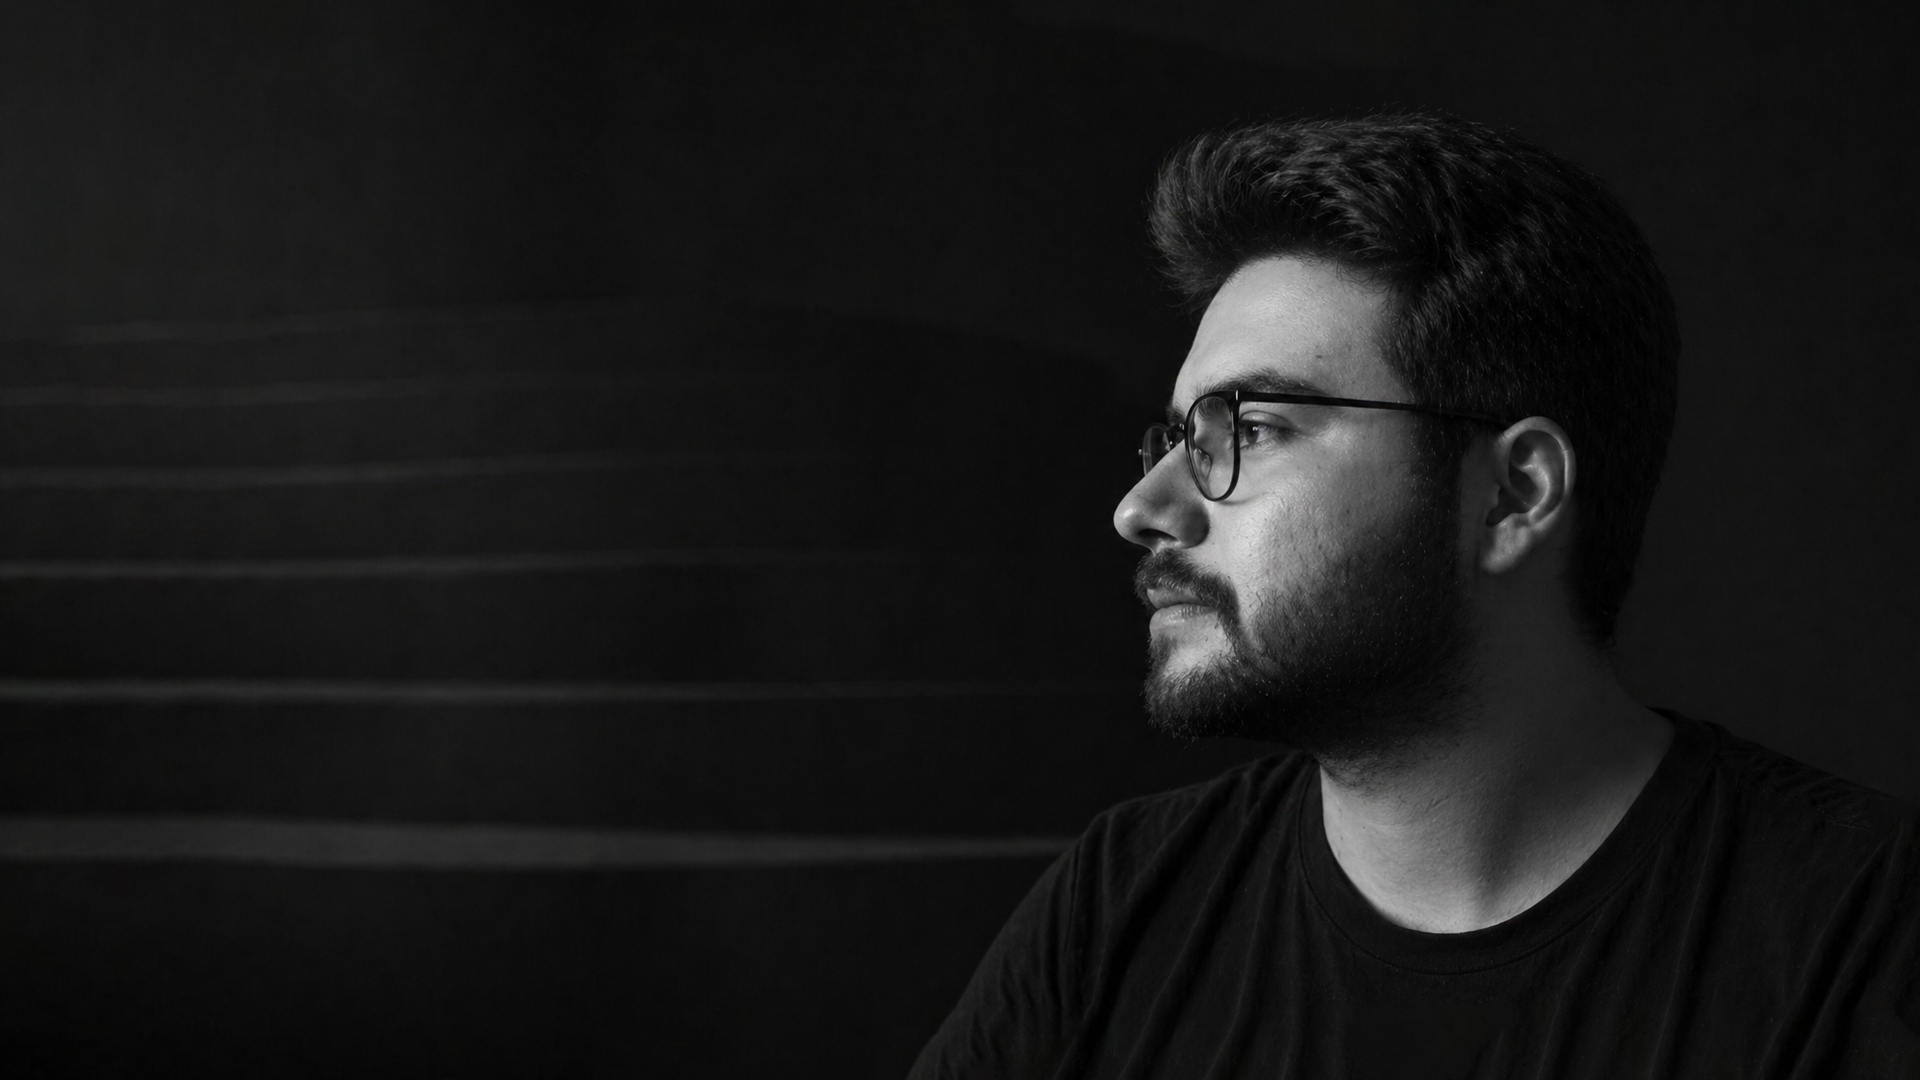
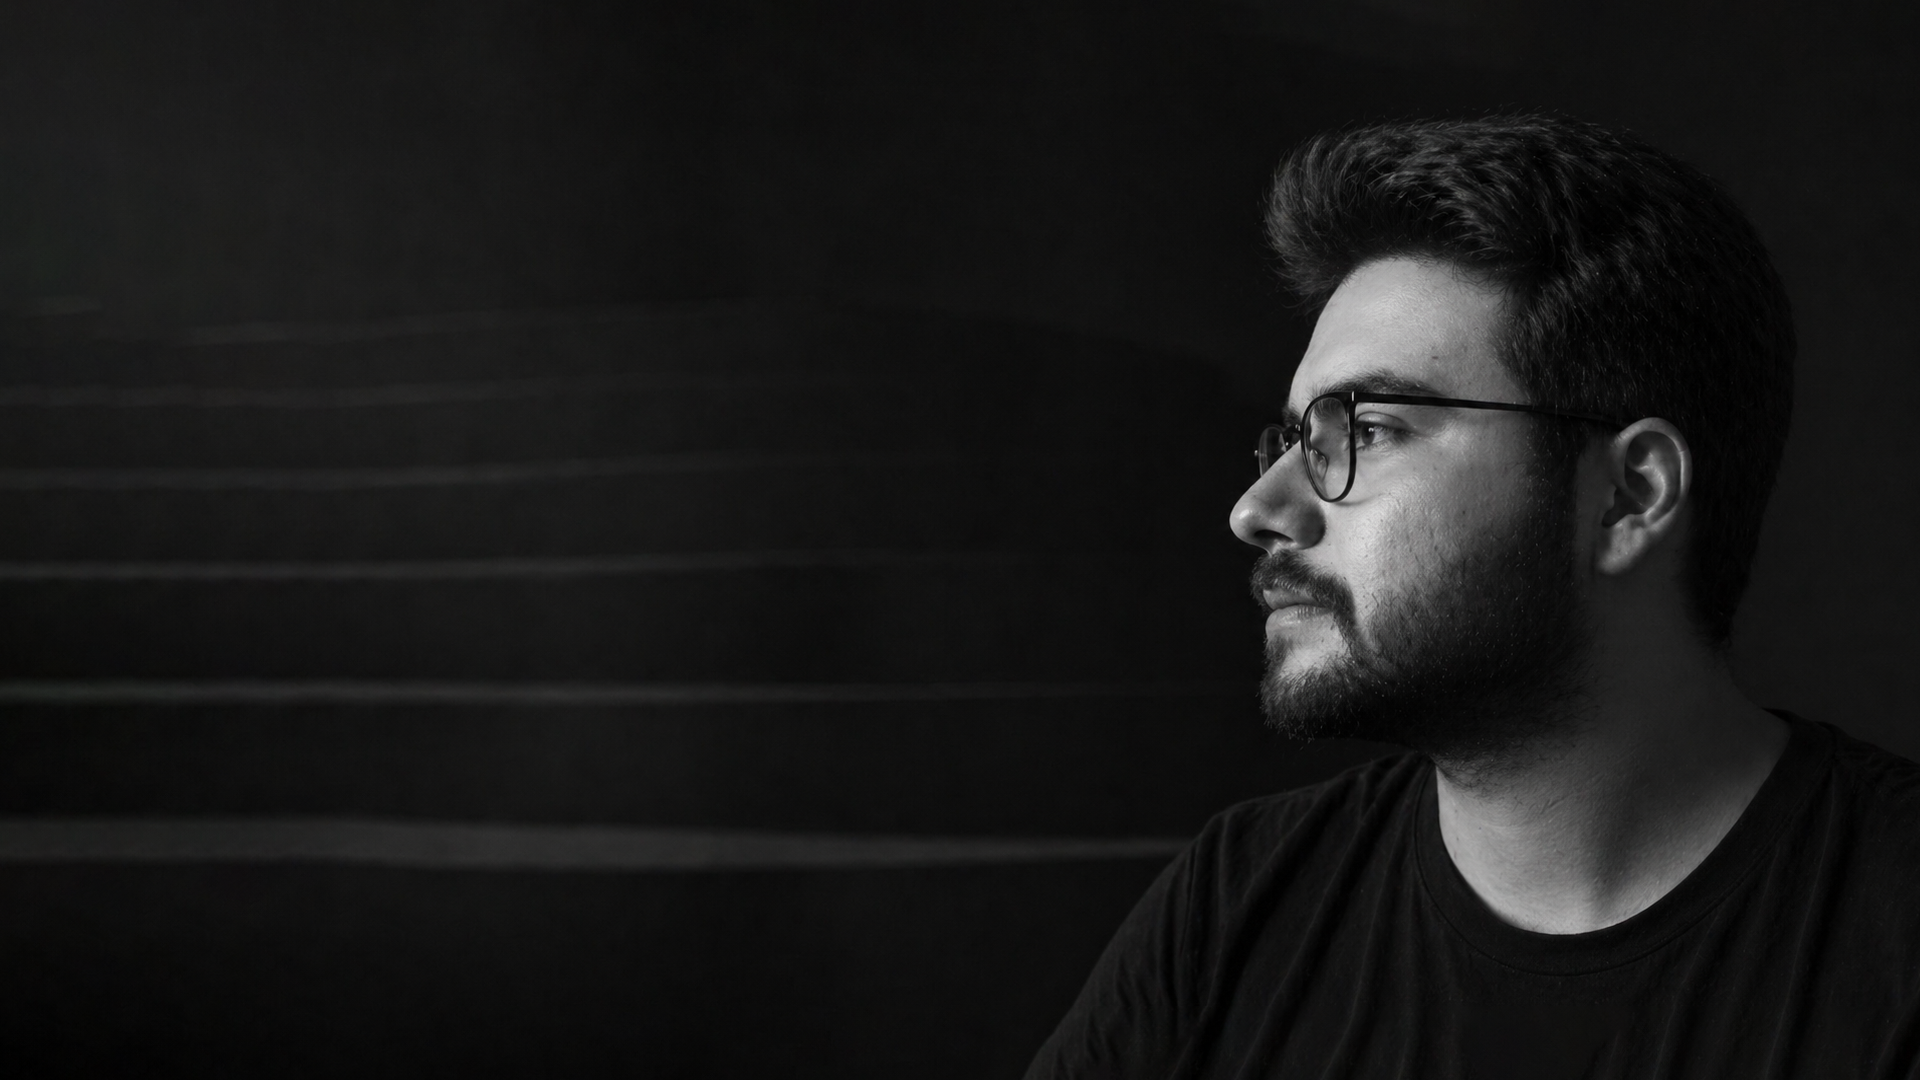
Polimenta layout e interações visuais
Ajusta elementos de interface, responsividade e comportamento visual em seções principais.

diff --git a/index.html b/index.html
@@ -25,6 +25,17 @@
 
 <body class="index-page">
 
+  <nav id="side-nav" class="side-nav" aria-label="Navegação principal">
+    <ul>
+      <li><a href="#hero" class="active"><i class="bi bi-house"></i><span>Início</span></a></li>
+      <li><a href="#about"><i class="bi bi-person"></i><span>Sobre</span></a></li>
+      <li><a href="#resume"><i class="bi bi-file-earmark-text"></i><span>Experiência</span></a></li>
+      <li><a href="#services"><i class="bi bi-hdd-stack"></i><span>Serviços</span></a></li>
+      <li><a href="#portfolio"><i class="bi bi-images"></i><span>Projetos</span></a></li>
+      <li><a href="#contact"><i class="bi bi-envelope"></i><span>Contato</span></a></li>
+    </ul>
+  </nav>
+
   <header id="header" class="header d-flex align-items-center fixed-top">
     <div class="container-fluid container-xl position-relative d-flex align-items-center">
 
@@ -178,62 +189,55 @@
                   </div>
                 </div>
               </div>
+            </div>
+          </div>
+        </div>
 
-              <div class="skills-showcase" data-aos="fade-up" data-aos-delay="250">
-                <div class="section-tag">Core Skills</div>
-                <h3>Competências técnicas</h3>
+        <div class="skills-showcase tools-showcase" data-aos="fade-up" data-aos-delay="250">
+          <div class="tools-showcase-header">
+            <span>Competências técnicas</span>
+            <h3>Stack para interfaces, dados e experiências imersivas</h3>
+            <p>Combino front-end moderno, integrações, performance e ferramentas 3D para construir produtos web rápidos, responsivos e conectados a experiências reais.</p>
+          </div>
 
-                <div class="skills-list skills-animation">
-                  <div class="skill-item">
-                    <div class="skill-info">
-                      <span class="skill-name">React &amp; Next.js</span>
-                      <span class="skill-percent">95%</span>
-                    </div>
-                    <div class="progress">
-                      <div class="progress-bar" role="progressbar" aria-valuenow="95" aria-valuemin="0" aria-valuemax="100"></div>
-                    </div>
-                  </div>
+          <div class="tools-grid">
+            <div class="tool-item">
+              <div class="tool-logo"><i class="bi bi-layers"></i></div>
+              <div>
+                <h4>React &amp; Next.js</h4>
+                <p>Interfaces web responsivas</p>
+              </div>
+            </div>
 
-                  <div class="skill-item">
-                    <div class="skill-info">
-                      <span class="skill-name">TypeScript &amp; APIs REST</span>
-                      <span class="skill-percent">90%</span>
-                    </div>
-                    <div class="progress">
-                      <div class="progress-bar" role="progressbar" aria-valuenow="90" aria-valuemin="0" aria-valuemax="100"></div>
-                    </div>
-                  </div>
+            <div class="tool-item">
+              <div class="tool-logo"><i class="bi bi-braces"></i></div>
+              <div>
+                <h4>TypeScript &amp; APIs REST</h4>
+                <p>Aplicações tipadas e integrações</p>
+              </div>
+            </div>
 
-                  <div class="skill-item">
-                    <div class="skill-info">
-                      <span class="skill-name">SEO &amp; Analytics</span>
-                      <span class="skill-percent">88%</span>
-                    </div>
-                    <div class="progress">
-                      <div class="progress-bar" role="progressbar" aria-valuenow="88" aria-valuemin="0" aria-valuemax="100"></div>
-                    </div>
-                  </div>
+            <div class="tool-item">
+              <div class="tool-logo"><i class="bi bi-graph-up-arrow"></i></div>
+              <div>
+                <h4>SEO &amp; Analytics</h4>
+                <p>Performance, tracking e conversão</p>
+              </div>
+            </div>
 
-                  <div class="skill-item">
-                    <div class="skill-info">
-                      <span class="skill-name">VR, Unreal Engine &amp; Blender</span>
-                      <span class="skill-percent">85%</span>
-                    </div>
-                    <div class="progress">
-                      <div class="progress-bar" role="progressbar" aria-valuenow="85" aria-valuemin="0" aria-valuemax="100"></div>
-                    </div>
-                  </div>
+            <div class="tool-item">
+              <div class="tool-logo"><i class="bi bi-badge-vr"></i></div>
+              <div>
+                <h4>VR, Unreal Engine &amp; Blender</h4>
+                <p>Experiências imersivas e 3D</p>
+              </div>
+            </div>
 
-                  <div class="skill-item">
-                    <div class="skill-info">
-                      <span class="skill-name">Firebase, SQL &amp; Prisma</span>
-                      <span class="skill-percent">82%</span>
-                    </div>
-                    <div class="progress">
-                      <div class="progress-bar" role="progressbar" aria-valuenow="82" aria-valuemin="0" aria-valuemax="100"></div>
-                    </div>
-                  </div>
-                </div>
+            <div class="tool-item">
+              <div class="tool-logo"><i class="bi bi-database"></i></div>
+              <div>
+                <h4>Firebase, SQL &amp; Prisma</h4>
+                <p>Dados, autenticação e persistência</p>
               </div>
             </div>
           </div>

diff --git a/assets/css/main.css b/assets/css/main.css
@@ -4234,6 +4234,85 @@ section,
 /*--------------------------------------------------------------
 # Bernardo Hille Custom Static Overrides
 --------------------------------------------------------------*/
+.side-nav {
+  position: fixed;
+  left: 18px;
+  top: 50%;
+  transform: translateY(-50%);
+  z-index: 997;
+  display: none;
+}
+
+.side-nav ul {
+  margin: 0;
+  padding: 0;
+  list-style: none;
+  display: flex;
+  flex-direction: column;
+  gap: 14px;
+}
+
+.side-nav a {
+  width: 54px;
+  height: 54px;
+  overflow: hidden;
+  border-radius: 999px;
+  background: color-mix(in srgb, var(--contrast-color), transparent 8%);
+  color: var(--accent-color);
+  display: flex;
+  align-items: center;
+  gap: 12px;
+  padding: 0 18px;
+  font-size: 18px;
+  line-height: 1;
+  white-space: nowrap;
+  box-shadow: 0 14px 30px color-mix(in srgb, var(--default-color), transparent 88%);
+  transition: width 0.25s ease, background-color 0.25s ease, color 0.25s ease, box-shadow 0.25s ease;
+}
+
+.side-nav a i {
+  flex: 0 0 auto;
+}
+
+.side-nav a span {
+  color: var(--contrast-color);
+  font-size: 15px;
+  font-weight: 600;
+  opacity: 0;
+  transform: translateX(-8px);
+  transition: opacity 0.2s ease, transform 0.2s ease;
+}
+
+.side-nav a:hover,
+.side-nav a.active {
+  background: var(--accent-color);
+  color: var(--contrast-color);
+  box-shadow: 0 18px 36px color-mix(in srgb, var(--accent-color), transparent 68%);
+}
+
+.side-nav a:hover {
+  width: 162px;
+}
+
+.side-nav a:hover span {
+  opacity: 1;
+  transform: translateX(0);
+}
+
+@media (min-width: 1200px) {
+  .index-page .header {
+    display: none !important;
+  }
+
+  .index-page .side-nav {
+    display: block;
+  }
+
+  .index-page .hero {
+    padding-top: 0;
+  }
+}
+
 .hero img {
   object-position: center 24%;
   filter: brightness(0.42);
@@ -4273,6 +4352,138 @@ section,
 .about .profile-card .profile-stats .stat-item p {
   text-transform: none;
   letter-spacing: 0;
+}
+
+.about .tools-showcase {
+  background: transparent;
+  padding: 0;
+  margin-top: 56px;
+}
+
+.about .tools-showcase .tools-showcase-header {
+  max-width: 980px;
+  margin-bottom: 54px;
+}
+
+.about .tools-showcase .tools-showcase-header span {
+  display: inline-block;
+  color: var(--accent-color);
+  font-size: 0.875rem;
+  font-weight: 400;
+  text-transform: uppercase;
+  letter-spacing: 2px;
+  margin-bottom: 22px;
+  position: relative;
+}
+
+.about .tools-showcase .tools-showcase-header span::after {
+  content: "";
+  position: absolute;
+  bottom: -9px;
+  left: 0;
+  width: 40px;
+  height: 2px;
+  background: var(--accent-color);
+}
+
+.about .tools-showcase h3 {
+  color: var(--contrast-color);
+  font-size: clamp(2.4rem, 5vw, 4.35rem);
+  font-weight: 700;
+  line-height: 1.12;
+  letter-spacing: 0;
+  margin-bottom: 26px;
+}
+
+.about .tools-showcase .tools-showcase-header p {
+  color: color-mix(in srgb, var(--contrast-color), transparent 18%);
+  font-size: clamp(1.05rem, 2vw, 1.45rem);
+  line-height: 1.75;
+  margin: 0;
+}
+
+.about .tools-showcase .tools-grid {
+  display: grid;
+  grid-template-columns: repeat(2, minmax(0, 1fr));
+  gap: 28px 34px;
+}
+
+.about .tools-showcase .tool-item {
+  display: grid;
+  grid-template-columns: 76px minmax(0, 1fr);
+  align-items: center;
+  gap: 24px;
+  min-width: 0;
+  min-height: 144px;
+  background: color-mix(in srgb, var(--contrast-color), transparent 94%);
+  border: 1px solid color-mix(in srgb, var(--contrast-color), transparent 86%);
+  border-radius: 22px;
+  padding: 28px 34px;
+}
+
+.about .tools-showcase .tool-logo {
+  width: 70px;
+  height: 70px;
+  border-radius: 18px;
+  background: color-mix(in srgb, var(--accent-color), transparent 88%);
+  color: var(--accent-color);
+  display: flex;
+  align-items: center;
+  justify-content: center;
+  font-family: var(--heading-font);
+  font-size: 32px;
+  font-weight: 900;
+  letter-spacing: 0;
+}
+
+.about .tools-showcase .tool-logo i {
+  line-height: 1;
+}
+
+.about .tools-showcase .tool-item h4 {
+  color: var(--contrast-color);
+  font-size: clamp(1.35rem, 2.4vw, 1.7rem);
+  font-weight: 800;
+  margin: 0 0 10px;
+  letter-spacing: 0;
+}
+
+.about .tools-showcase .tool-item p {
+  color: color-mix(in srgb, var(--contrast-color), transparent 32%);
+  font-size: 1.05rem;
+  font-weight: 400;
+  margin: 0;
+  line-height: 1.5;
+}
+
+@media (max-width: 767px) {
+  .about .tools-showcase .tools-showcase-header {
+    margin-bottom: 36px;
+  }
+
+  .about .tools-showcase .tools-grid {
+    grid-template-columns: 1fr;
+    gap: 26px;
+  }
+
+  .about .tools-showcase .tool-item {
+    grid-template-columns: 58px minmax(0, 1fr);
+    gap: 16px;
+    min-height: 0;
+    padding: 22px 20px;
+    border-radius: 18px;
+  }
+
+  .about .tools-showcase .tool-logo {
+    width: 58px;
+    height: 58px;
+    border-radius: 15px;
+    font-size: 24px;
+  }
+
+  .about .tools-showcase .tool-item p {
+    font-size: 0.98rem;
+  }
 }
 
 .portfolio .portfolio-card .portfolio-meta .project-tags {

diff --git a/assets/js/main.js b/assets/js/main.js
@@ -209,7 +209,7 @@
   /**
    * Navmenu Scrollspy
    */
-  let navmenulinks = document.querySelectorAll('.navmenu a');
+  let navmenulinks = document.querySelectorAll('.navmenu a, .side-nav a');
 
   function navmenuScrollspy() {
     navmenulinks.forEach(navmenulink => {
@@ -218,7 +218,7 @@
       if (!section) return;
       let position = window.scrollY + 200;
       if (position >= section.offsetTop && position <= (section.offsetTop + section.offsetHeight)) {
-        document.querySelectorAll('.navmenu a.active').forEach(link => link.classList.remove('active'));
+        document.querySelectorAll('.navmenu a.active, .side-nav a.active').forEach(link => link.classList.remove('active'));
         navmenulink.classList.add('active');
       } else {
         navmenulink.classList.remove('active');
